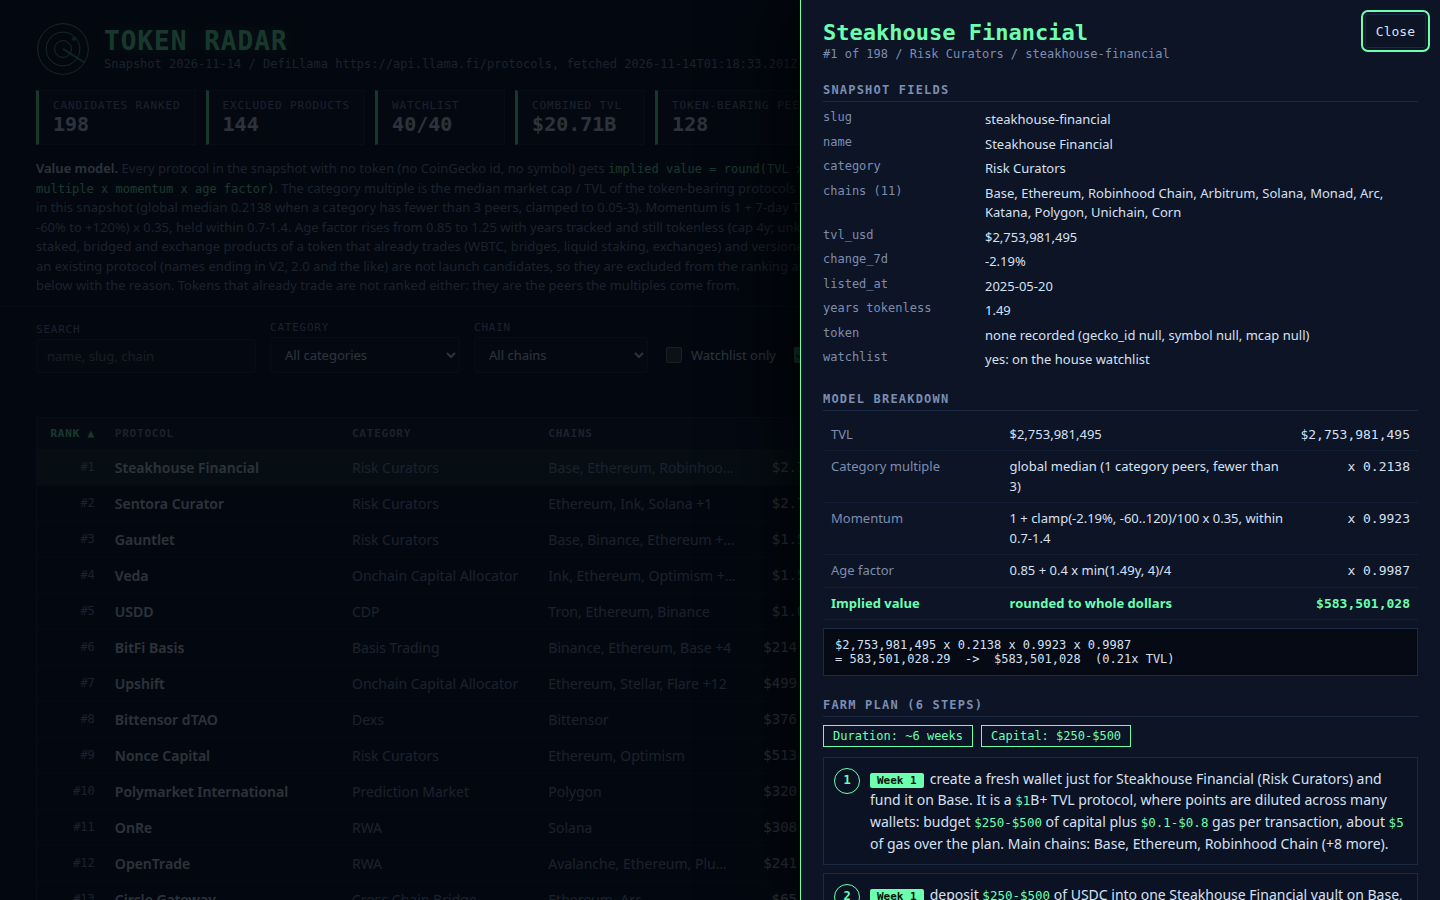
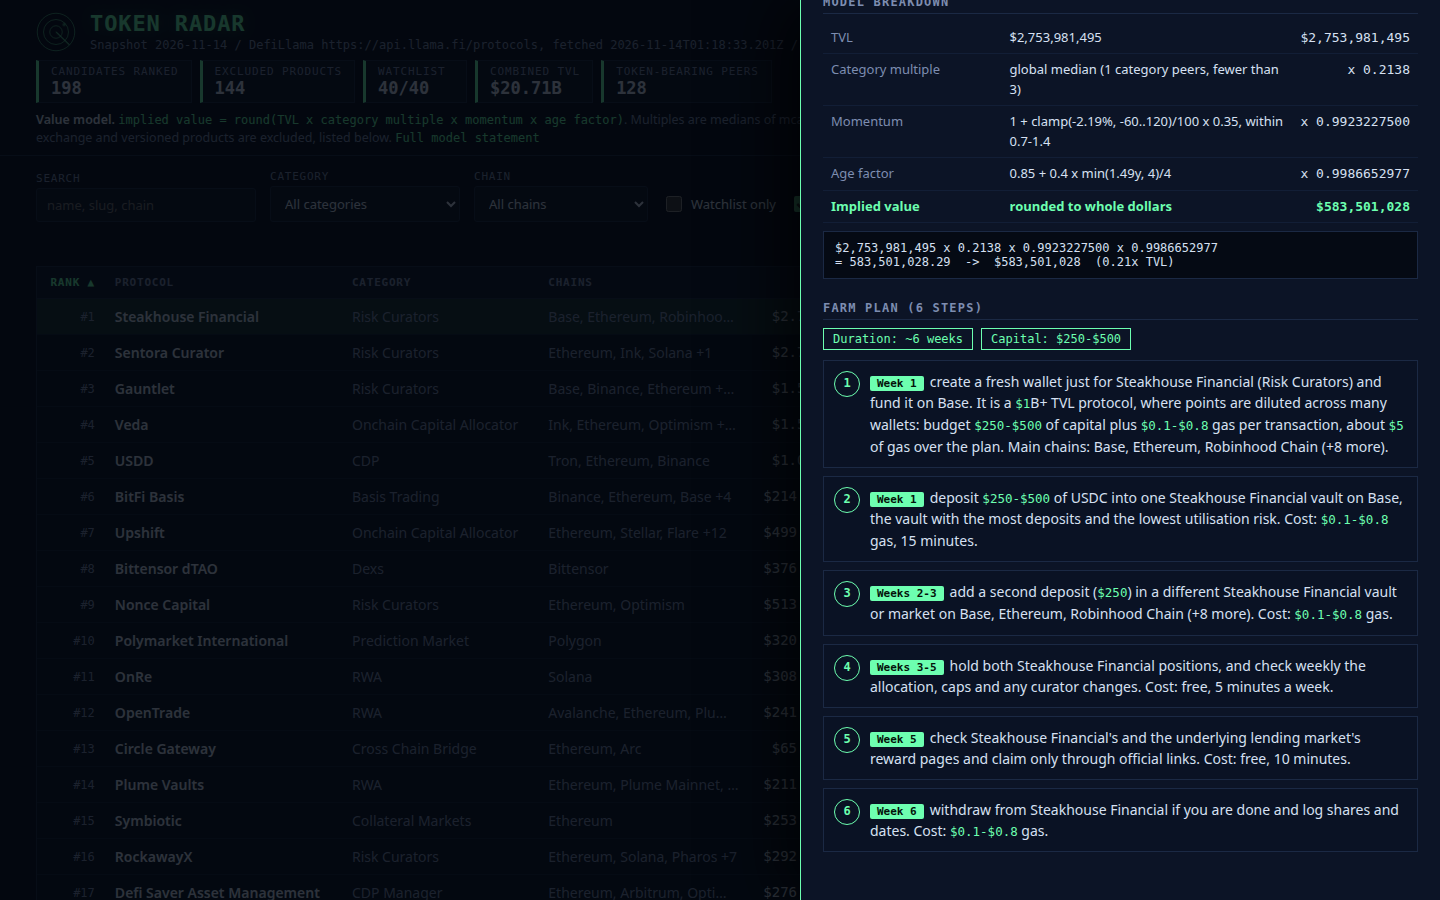
Round 3: unambiguous watchlist count, exact worked equation, compact header, new screenshot set
- Watchlist-only view labels the match as '40 of 40 watchlist protocols'
- Detail equation shows unrounded momentum/age factors (10 decimals, from data.js only; board.json unchanged)
- Header tightened: table starts ~150px higher; full model statement kept in a details block
- Screenshots: board, detail scrolled to farm plan, watchlist-only, excluded products (replaces comparables shot)
- Excluded section now precedes Comparables so it can be captured on its own

diff --git a/dashboard/app.js b/dashboard/app.js
@@ -19,6 +19,7 @@
   function exact(n) { return '$' + Math.round(n).toLocaleString('en-US'); }
   function pct(n) { return n == null ? 'n/a' : (n > 0 ? '+' : '') + n.toFixed(2) + '%'; }
   function yrs(r) { return r.model.years_tokenless == null ? null : r.model.years_tokenless; }
+  function x10(n) { return n.toFixed(10); }
   function x4(n) { return n.toFixed(4).replace(/0+$/, '').replace(/\.$/, '.0'); }
   function el(tag, cls, text) {
     var e = document.createElement(tag);
@@ -39,15 +40,13 @@
   ];
   stats.forEach(function (s) { add($('stats'), add(el('div'), el('dt', 0, s[0]), el('dd', 0, s[1]))); });
   var mp = $('model');
-  [['Value model. ', 'b'],
-   ['Every protocol in the snapshot with no token (no CoinGecko id, no symbol) gets ', 0],
-   ['implied value = round(TVL x category multiple x momentum x age factor)', 'code'],
-   ['. The category multiple is the median market cap / TVL of the token-bearing protocols in the same category in this snapshot (global median ' + D.global_multiple + ' when a category has fewer than ' + M.min_peers + ' peers, clamped to ' + M.multiple_min + '-' + M.multiple_max + '). Momentum is 1 + 7-day TVL change (clamped ' + M.growth_floor + '% to +' + M.growth_cap + '%) x ' + M.growth_weight + ', held within ' + M.momentum_min + '-' + M.momentum_max + '. Age factor rises from ' + M.age_min + ' to ' + (M.age_min + M.age_range).toFixed(2) + ' with years tracked and still tokenless (cap ' + M.age_cap_years + 'y; unknown = 1). Wrapped, staked, bridged and exchange products of a token that already trades (WBTC, bridges, liquid staking, exchanges) and versioned deployments of an existing protocol (names ending in V2, 2.0 and the like) are not launch candidates, so they are excluded from the ranking and listed separately below with the reason. Tokens that already trade are not ranked either: they are the peers the multiples come from.', 0]
-  ].forEach(function (p) {
-    if (p[1] === 'b') mp.appendChild(el('b', 0, p[0]));
-    else if (p[1] === 'code') mp.appendChild(el('code', 0, p[0]));
-    else mp.appendChild(document.createTextNode(p[0]));
-  });
+  mp.appendChild(el('b', 0, 'Value model. '));
+  mp.appendChild(el('code', 0, 'implied value = round(TVL x category multiple x momentum x age factor)'));
+  mp.appendChild(document.createTextNode('. Multiples are medians of mcap / TVL from the snapshot\'s own token-bearing peers (see Comparables); wrapped, staked, bridged, exchange and versioned products are excluded, listed below. '));
+  var det = el('details');
+  det.appendChild(el('summary', 0, 'Full model statement'));
+  det.appendChild(el('p', 0, 'Every protocol in the snapshot with no token (no CoinGecko id, no symbol) gets implied value = round(TVL x category multiple x momentum x age factor). The category multiple is the median market cap / TVL of the token-bearing protocols in the same category in this snapshot (global median ' + D.global_multiple + ' when a category has fewer than ' + M.min_peers + ' peers, clamped to ' + M.multiple_min + '-' + M.multiple_max + '). Momentum is 1 + 7-day TVL change (clamped ' + M.growth_floor + '% to +' + M.growth_cap + '%) x ' + M.growth_weight + ', held within ' + M.momentum_min + '-' + M.momentum_max + '. Age factor rises from ' + M.age_min + ' to ' + (M.age_min + M.age_range).toFixed(2) + ' with years tracked and still tokenless (cap ' + M.age_cap_years + 'y; unknown = 1). Wrapped, staked, bridged and exchange products of a token that already trades (WBTC, bridges, liquid staking, exchanges) and versioned deployments of an existing protocol (names ending in V2, 2.0 and the like) are not launch candidates, so they are excluded from the ranking and listed separately below with the reason. Tokens that already trade are not ranked either: they are the peers the multiples come from.'));
+  mp.appendChild(det);
 
   // ---------- filters
   var cats = {}, chains = {};
@@ -183,7 +182,7 @@
     }
     var tv = 0, iv2 = 0, w = 0;
     list.forEach(function (r) { tv += r.tvl_usd; iv2 += r.implied_value_usd; if (r.on_watchlist) w++; });
-    $('count').textContent = list.length + ' of ' + rows.length + ' rows / ' + w + ' watchlist / TVL ' + money(tv) + ' / implied ' + money(iv2);
+    $('count').textContent = (state.watch ? w + ' of ' + D.watchlist_size + ' watchlist protocols' : list.length + ' of ' + rows.length + ' candidates (' + w + ' on the watchlist)') + ' / TVL ' + money(tv) + ' / implied ' + money(iv2);
     $('foot').textContent = 'Ranks are over all ' + D.board_size + ' launch candidates, so a filtered view keeps its global rank. Click a row for the model breakdown and the farm plan.';
     renderExcluded();
     board.setAttribute('aria-busy', 'false');
@@ -234,11 +233,11 @@
     function line(a, b, c, cls) { var tr = add(el('tr', cls || ''), el('td', 0, a), el('td', 0, b), el('td', 'n', c)); t.appendChild(tr); }
     line('TVL', exact(r.tvl_usd), exact(r.tvl_usd));
     line('Category multiple', src, 'x ' + x4(m.category_multiple));
-    line('Momentum', r.change_7d == null ? 'no 7d figure: neutral' : '1 + clamp(' + pct(r.change_7d) + ', ' + M.growth_floor + '..' + M.growth_cap + ')/100 x ' + M.growth_weight + ', within ' + M.momentum_min + '-' + M.momentum_max, 'x ' + x4(m.momentum));
-    line('Age factor', m.years_tokenless == null ? 'no listing date: neutral' : M.age_min + ' + ' + M.age_range + ' x min(' + m.years_tokenless.toFixed(2) + 'y, ' + M.age_cap_years + ')/' + M.age_cap_years, 'x ' + x4(m.age_factor));
+    line('Momentum', r.change_7d == null ? 'no 7d figure: neutral' : '1 + clamp(' + pct(r.change_7d) + ', ' + M.growth_floor + '..' + M.growth_cap + ')/100 x ' + M.growth_weight + ', within ' + M.momentum_min + '-' + M.momentum_max, 'x ' + x10(r.exact.momentum));
+    line('Age factor', m.years_tokenless == null ? 'no listing date: neutral' : M.age_min + ' + ' + M.age_range + ' x min(' + m.years_tokenless.toFixed(2) + 'y, ' + M.age_cap_years + ')/' + M.age_cap_years, 'x ' + x10(r.exact.age_factor));
     line('Implied value', 'rounded to whole dollars', exact(r.implied_value_usd), 'sum');
     panel.appendChild(t);
-    panel.appendChild(el('div', 'eq', exact(r.tvl_usd) + ' x ' + x4(m.category_multiple) + ' x ' + x4(m.momentum) + ' x ' + x4(m.age_factor) + '\n= ' + m.formula_value.toLocaleString('en-US') + '  ->  ' + exact(r.implied_value_usd) + '  (' + r.implied_to_tvl.toFixed(2) + 'x TVL)'));
+    panel.appendChild(el('div', 'eq', exact(r.tvl_usd) + ' x ' + x4(m.category_multiple) + ' x ' + x10(r.exact.momentum) + ' x ' + x10(r.exact.age_factor) + '\n= ' + m.formula_value.toLocaleString('en-US') + '  ->  ' + exact(r.implied_value_usd) + '  (' + r.implied_to_tvl.toFixed(2) + 'x TVL)'));
 
     panel.appendChild(el('h3', 0, 'Farm plan (' + r.farm_steps.length + ' steps)'));
     var last = 0, cap = null;

diff --git a/lib/model.ts b/lib/model.ts
@@ -103,6 +103,12 @@ export interface BoardRow {
   farm_steps: string[];
 }
 
+/** The unrounded factors behind a row, for the dashboard's worked equation only (board.json keeps its 4-decimal fields). */
+export interface ExactFactors {
+  momentum: number;
+  age_factor: number;
+}
+
 export interface RadarRow {
   rank: number;
   slug: string;
@@ -116,6 +122,7 @@ export interface RadarRow {
   implied_value_usd: number;
   implied_to_tvl: number;
   model: RowModel;
+  exact: ExactFactors;
   farm_steps: string[];
 }
 
@@ -433,7 +440,7 @@ export function farmSteps(p: SnapshotProtocol, age: number | null): string[] {
 
 // ---------------------------------------------------------------- the board
 
-export function buildBoard(snapshot: Snapshot, model: ModelConstants = MODEL): { board: BoardRow[]; excluded: ExcludedRow[]; multiples: Multiples } {
+export function buildBoard(snapshot: Snapshot, model: ModelConstants = MODEL): { board: BoardRow[]; excluded: ExcludedRow[]; multiples: Multiples; exact: ExactFactors[] } {
   const multiples = learnMultiples(snapshot.protocols, model);
   const watch = new Set(snapshot.watchlist);
   const tokenless = snapshot.protocols.filter(isPreToken);
@@ -486,10 +493,11 @@ export function buildBoard(snapshot: Snapshot, model: ModelConstants = MODEL): {
     },
     farm_steps: farmSteps(s.p, s.age),
   }));
-  return { board, excluded, multiples };
+  const exact = scored.map((s): ExactFactors => ({ momentum: s.momentum, age_factor: s.ageFactor }));
+  return { board, excluded, multiples, exact };
 }
 
-export function radarRow(row: BoardRow): RadarRow {
+export function radarRow(row: BoardRow, exact: ExactFactors): RadarRow {
   return {
     rank: row.rank,
     slug: row.slug,
@@ -503,12 +511,13 @@ export function radarRow(row: BoardRow): RadarRow {
     implied_value_usd: row.implied_value_usd,
     implied_to_tvl: row.implied_to_tvl,
     model: row.model,
+    exact,
     farm_steps: row.farm_steps,
   };
 }
 
 export function buildRadar(snapshot: Snapshot, model: ModelConstants = MODEL): { board: BoardRow[]; radar: RadarData } {
-  const { board, excluded, multiples } = buildBoard(snapshot, model);
+  const { board, excluded, multiples, exact } = buildBoard(snapshot, model);
   const slugs = new Set(board.map((r) => r.slug));
   const mult: RadarData['multiples'] = {};
   for (const [k, v] of multiples.byCategory) mult[k === '' ? 'Uncategorised' : k] = v;
@@ -526,7 +535,7 @@ export function buildRadar(snapshot: Snapshot, model: ModelConstants = MODEL): {
     token_peers: multiples.peers,
     total_tvl_usd: board.reduce((a, r) => a + r.tvl_usd, 0),
     multiples: mult,
-    rows: board.map(radarRow),
+    rows: board.map((r, i) => radarRow(r, exact[i]!)),
     excluded,
     comparables: [...multiples.byCategory]
       .filter(([, v]) => v.peers > 0)

diff --git a/dashboard/app.css b/dashboard/app.css
@@ -5,21 +5,25 @@ body{margin:0;background:radial-gradient(1200px 500px at 85% -10%,#12294a 0,tran
 .skip{position:absolute;left:-999px;top:0;background:var(--acc);color:#04120a;padding:6px 10px;z-index:30}
 .skip:focus{left:8px;top:8px}
 :focus-visible{outline:2px solid var(--acc);outline-offset:2px}
-.top{padding:22px clamp(14px,3vw,36px) 10px;border-bottom:1px solid var(--line);display:grid;gap:14px}
+.top{padding:12px clamp(14px,3vw,36px) 8px;border-bottom:1px solid var(--line);display:flex;flex-wrap:wrap;align-items:center;justify-content:space-between;gap:8px 24px}
 .brand{display:flex;align-items:center;gap:14px}
-.brand h1{margin:0;font:700 26px/1.1 var(--mono);letter-spacing:.04em;text-transform:uppercase;color:var(--acc);text-shadow:0 0 18px #6dffb055}
-.sub{margin:2px 0 0;color:var(--dim);font:12px var(--mono)}
-.sweep{width:54px;height:54px;flex:none;fill:none;stroke:var(--acc);stroke-width:1;opacity:.85}
+.brand h1{margin:0;font:700 22px/1.1 var(--mono);letter-spacing:.04em;text-transform:uppercase;color:var(--acc);text-shadow:0 0 18px #6dffb055}
+.sub{margin:1px 0 0;color:var(--dim);font:12px var(--mono)}
+.sweep{width:40px;height:40px;flex:none;fill:none;stroke:var(--acc);stroke-width:1;opacity:.85}
 .sweep path{stroke-width:1.6;transform-origin:32px 32px;animation:spin 6s linear infinite}
 .sweep .blip{fill:var(--acc);stroke:none;animation:blip 6s linear infinite}
 @keyframes spin{to{transform:rotate(360deg)}}
 @keyframes blip{0%,20%{opacity:1}60%,100%{opacity:.15}}
 @media (prefers-reduced-motion:reduce){.sweep path,.sweep .blip{animation:none}}
-.stats{display:flex;flex-wrap:wrap;gap:10px;margin:0}
-.stats div{background:var(--bg2);border:1px solid var(--line);border-left:3px solid var(--acc);padding:8px 14px;min-width:130px}
+.stats{display:flex;flex-wrap:wrap;gap:8px;margin:0}
+.stats div{background:var(--bg2);border:1px solid var(--line);border-left:3px solid var(--acc);padding:4px 12px;min-width:104px}
 .stats dt{font:11px var(--mono);color:var(--dim);text-transform:uppercase;letter-spacing:.08em}
-.stats dd{margin:0;font:600 20px var(--mono);color:var(--ink)}
-.model{margin:0;max-width:120ch;color:var(--dim);font-size:13px}
+.stats dd{margin:0;font:600 17px var(--mono);color:var(--ink)}
+.model{margin:0;flex:1 0 100%;color:var(--dim);font-size:12.5px;line-height:1.45}
+.model details{display:inline}
+.model summary{display:inline;cursor:pointer;color:var(--acc);font:12px var(--mono)}
+.model details[open] summary{display:block;margin-top:4px}
+.model details p{margin:6px 0 2px;max-width:130ch}
 .model b{color:var(--ink);font-weight:600}
 .model code{font:12px var(--mono);color:var(--acc)}
 main{padding:14px clamp(14px,3vw,36px) 40px;outline:0}

diff --git a/dashboard/index.html b/dashboard/index.html
@@ -28,15 +28,15 @@
   </form>
   <div class="wrap"><table id="tbl"><thead></thead><tbody></tbody></table></div>
   <p class="foot" id="foot"></p>
-  <section class="excl" id="comps" aria-labelledby="ct">
-    <h2 id="ct">Comparables: where the category multiples come from</h2>
-    <p class="xnote" id="cnote"></p>
-    <div class="wrap"><table id="ctbl"><thead><tr><th scope="col">Category</th><th scope="col" class="n">Token-bearing peers</th><th scope="col" class="n">Median mcap / TVL used</th><th scope="col">Multiple is</th></tr></thead><tbody></tbody></table></div>
-  </section>
   <section class="excl" id="excl" aria-labelledby="xt">
     <h2 id="xt">Not launch candidates: products of tokens that already trade</h2>
     <p class="xnote" id="xnote"></p>
     <div class="wrap"><table id="xtbl"><thead><tr><th scope="col">Protocol</th><th scope="col">Category</th><th scope="col">Chains</th><th scope="col" class="n">TVL</th><th scope="col">Why it is excluded</th></tr></thead><tbody></tbody></table></div>
+  </section>
+  <section class="excl" id="comps" aria-labelledby="ct">
+    <h2 id="ct">Comparables: where the category multiples come from</h2>
+    <p class="xnote" id="cnote"></p>
+    <div class="wrap"><table id="ctbl"><thead><tr><th scope="col">Category</th><th scope="col" class="n">Token-bearing peers</th><th scope="col" class="n">Median mcap / TVL used</th><th scope="col">Multiple is</th></tr></thead><tbody></tbody></table></div>
   </section>
 </main>
 <div class="scrim" id="scrim" hidden></div>
